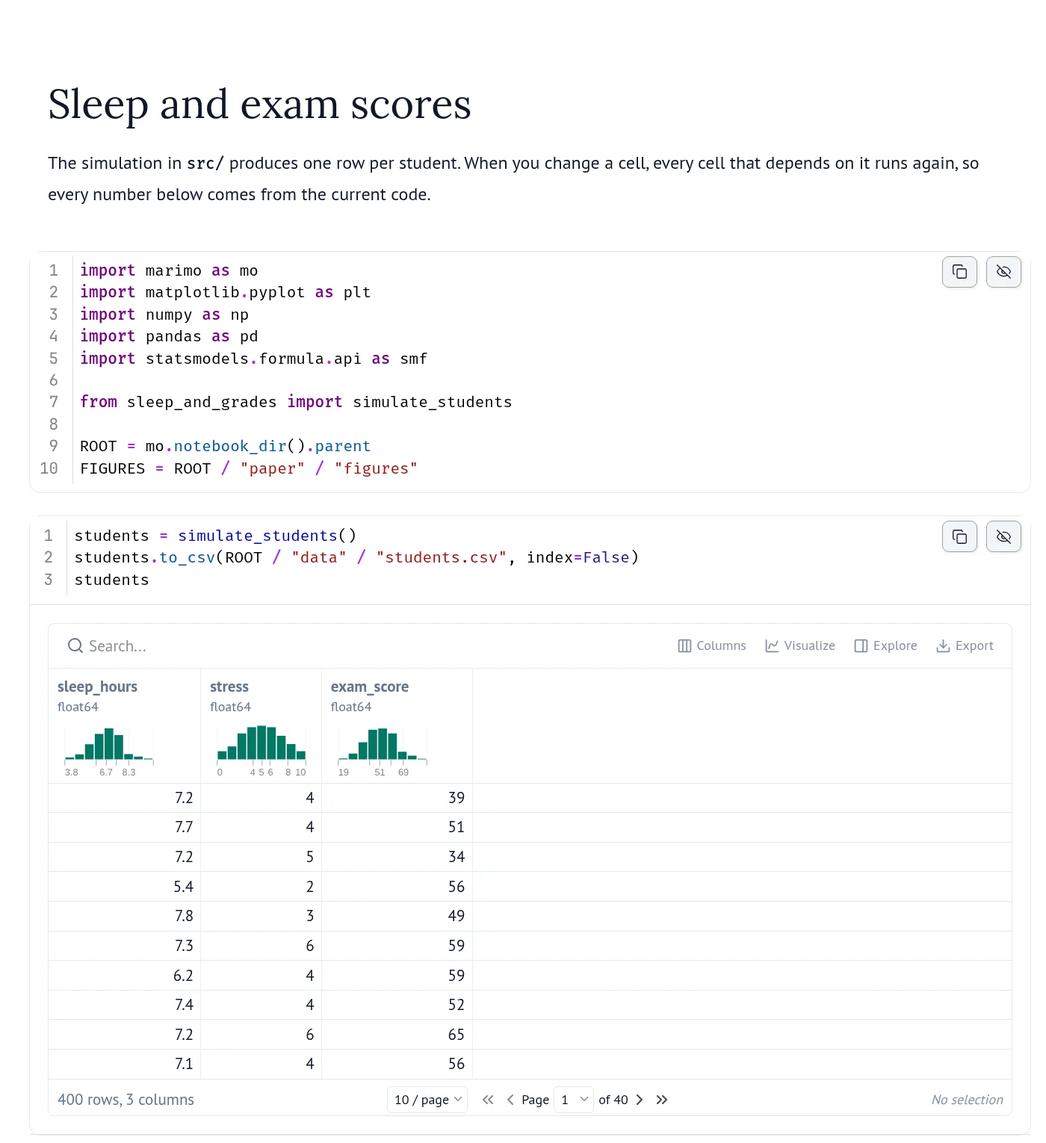
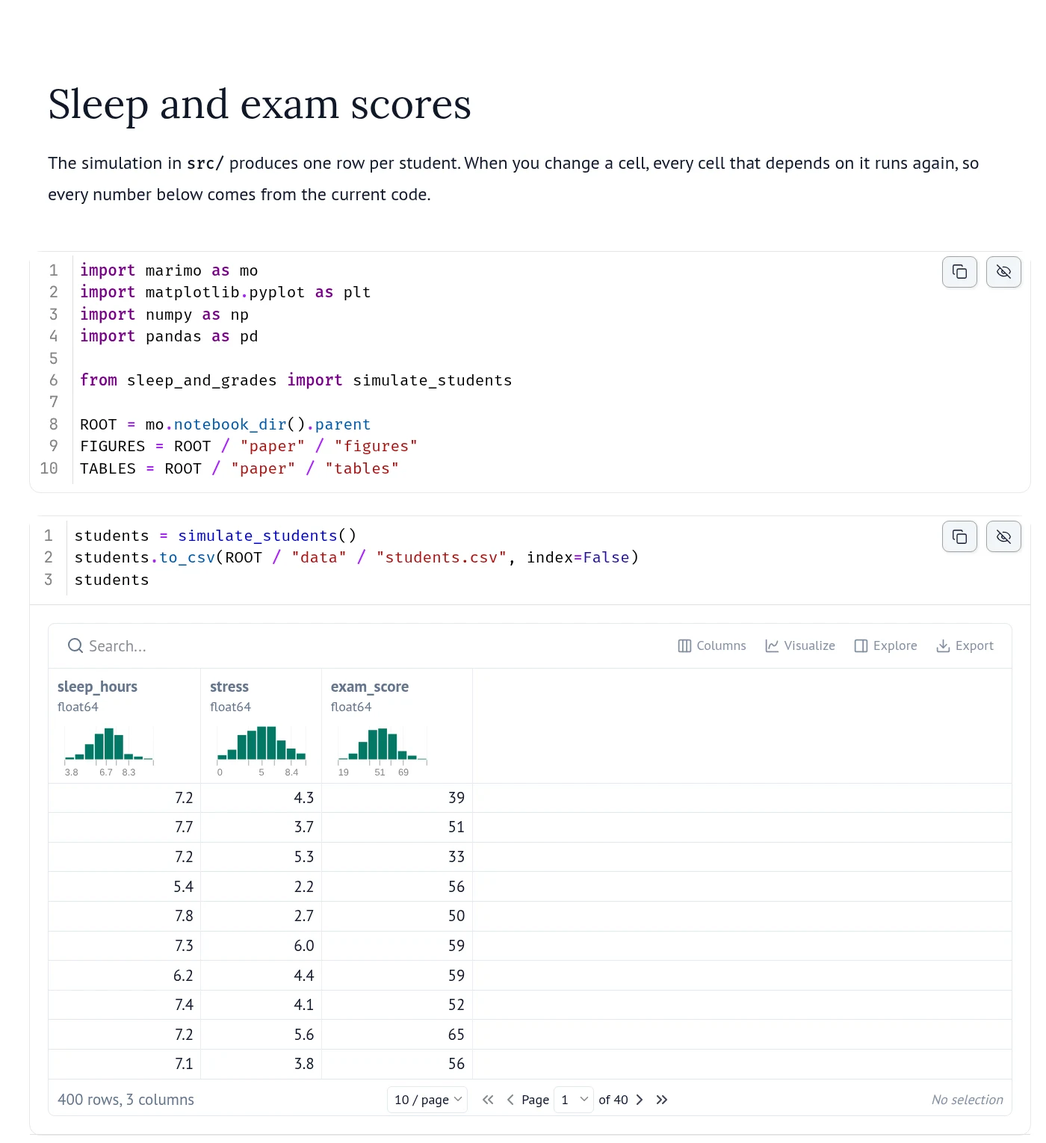
Agentic Researcher guide: analysis tab, live notebook with the agent, data and databases

diff --git a/agentic-researcher/index.html b/agentic-researcher/index.html
@@ -44,7 +44,7 @@
 </header>
 
 <figure class="ann wide hero-shot">
-  <div class="ann-img"><a href="shots/workspace.webp" target="_blank" rel="noopener"><img src="shots/workspace.webp" alt="A research project open on screen: the paper in an editor on the left and the Claude Code agent on the right, with tabs for running code, the paper, reviewing changes and backing up" loading="lazy"></a></div>
+  <div class="ann-img"><a href="shots/workspace.webp?v=3" target="_blank" rel="noopener"><img src="shots/workspace.webp?v=3" alt="A research project open on screen: the paper in an editor on the left and the Claude Code agent on the right, with tabs for running code, the paper, reviewing changes and backing up" loading="lazy"></a></div>
   <figcaption>One project, one window: the paper beside the agent, with tabs for running the code, building the paper, reviewing changes and backing up.</figcaption>
 </figure>
 
@@ -220,9 +220,9 @@
 
 <figure class="ann wide" id="shot-workspace">
   <div class="ann-img"><a href="shots/workspace.webp" target="_blank" rel="noopener"><img src="shots/workspace.webp" alt="The project workspace: a sidebar of projects and agents, a file list, the paper open in the editor, and Claude Code on the right, under five tabs" loading="lazy"></a>
-    <span class="box teal" style="left:12%;top:0%;width:25.5%;height:3.4%"></span><span class="pin" style="left:36.5%;top:1.7%">1</span><span class="pin" style="left:27%;top:22%">2</span><span class="pin" style="left:38%;top:41%">3</span><span class="pin" style="left:58.6%;top:36.8%">4</span><span class="pin" style="left:82%;top:6%">5</span><span class="pin" style="left:96%;top:94.7%">6</span><span class="pin" style="left:13.5%;top:57%">7</span>
+    <span class="box teal" style="left:12%;top:0%;width:24.4%;height:3.4%"></span><span class="pin" style="left:37.6%;top:1.7%">1</span><span class="pin" style="left:27%;top:22%">2</span><span class="pin" style="left:38%;top:41%">3</span><span class="pin" style="left:58.6%;top:36.8%">4</span><span class="pin" style="left:82%;top:6%">5</span><span class="pin" style="left:96%;top:94.7%">6</span><span class="pin" style="left:13.5%;top:57%">7</span>
   </div>
-  <ol class="ann-key"><li><strong>The five tabs</strong>: work, run, paper, review and git. Click one, or press <kbd>Alt</kbd> + <kbd>1</kbd> to <kbd>5</kbd>.</li><li><strong>The file list.</strong> Click a folder to open it and a file to edit it.</li><li><strong>The editor</strong>, showing the paper. Press <kbd>i</kbd> to start typing and <kbd>Esc</kbd> when you&rsquo;re done; long paragraphs wrap to fit.</li><li><strong>Writing suggestions</strong> appear in green after a line, here a suggested comma. They come from a checker that runs on your computer.</li><li><strong>Claude Code</strong>, your agent, already working inside this project.</li><li><strong>Type your request here</strong> and press <kbd>Enter</kbd>.</li><li><strong>Projects and agents.</strong> The dot next to an agent shows whether it&rsquo;s working, waiting for you or done, so you can leave it to work and check back.</li></ol>
+  <ol class="ann-key"><li><strong>The five tabs</strong>: work, analysis, paper, review and git. Click one, or press <kbd>Alt</kbd> + <kbd>1</kbd> to <kbd>5</kbd>.</li><li><strong>The file list.</strong> Click a folder to open it and a file to edit it.</li><li><strong>The editor</strong>, showing the paper. Press <kbd>i</kbd> to start typing and <kbd>Esc</kbd> when you&rsquo;re done; long paragraphs wrap to fit.</li><li><strong>Writing suggestions</strong> appear in green after a line, here a suggested comma. They come from a checker that runs on your computer.</li><li><strong>Claude Code</strong>, your agent, already working inside this project.</li><li><strong>Type your request here</strong> and press <kbd>Enter</kbd>.</li><li><strong>Projects and agents.</strong> The dot next to an agent shows whether it&rsquo;s working, waiting for you or done, so you can leave it to work and check back.</li></ol>
   <figcaption>The <em>work</em> tab: the editor and the agent side by side</figcaption>
 </figure>
 
@@ -243,8 +243,8 @@
 
 <div class="loop">
   <div class="loop-step"><div class="loop-n">1 · work</div><div class="loop-t">Write the software</div><div class="loop-d">with the agent</div></div>
-  <div class="loop-step"><div class="loop-n">2 · run</div><div class="loop-t">Run it</div><div class="loop-d">and open the notebook</div></div>
-  <div class="loop-step"><div class="loop-n">3 · notebook</div><div class="loop-t">Analyse</div><div class="loop-d">with live results</div></div>
+  <div class="loop-step"><div class="loop-n">2 · analysis</div><div class="loop-t">Run it</div><div class="loop-d">and open the notebook</div></div>
+  <div class="loop-step"><div class="loop-n">3 · analysis</div><div class="loop-t">Analyse</div><div class="loop-d">with live results</div></div>
   <div class="loop-step"><div class="loop-n">4 · paper</div><div class="loop-t">Write</div><div class="loop-d">with a live PDF</div></div>
   <div class="loop-step"><div class="loop-n">5 · review</div><div class="loop-t">Check</div><div class="loop-d">every change</div></div>
   <div class="loop-step"><div class="loop-n">6 · git</div><div class="loop-t">Save</div><div class="loop-d">and back up</div></div>
@@ -254,56 +254,81 @@
 <p>Claude Code sits beside the editor in the <em>work</em> tab. Tell it what you want in plain English. It reads the project, proposes changes and asks before it does anything you haven’t allowed. Here I asked it to add a second factor to the simulation.</p>
 
 <figure class="ann wide" id="shot-agent">
-  <div class="ann-img"><a href="shots/agent.webp" target="_blank" rel="noopener"><img src="shots/agent.webp" alt="Claude Code on the right explaining the change it made, with the edited simulation file open in the editor on the left" loading="lazy"></a>
-    <span class="box" style="left:61%;top:22%;width:36%;height:18%"></span><span class="pin" style="left:59.8%;top:22%">1</span><span class="pin" style="left:59.8%;top:50%">2</span><span class="pin" style="left:30.8%;top:44%">3</span><span class="pin" style="left:28.3%;top:19%">4</span><span class="pin" style="left:95%;top:94.5%">5</span>
+  <div class="ann-img"><a href="shots/agent.webp?v=3" target="_blank" rel="noopener"><img src="shots/agent.webp?v=3" alt="Claude Code, enlarged to fill the workspace, showing its edit to the simulation in red and green and a note on what it checked" loading="lazy"></a>
+    <span class="pin" style="left:76.5%;top:4.7%">1</span><span class="pin" style="left:13.1%;top:14.4%">2</span><span class="pin" style="left:10.9%;top:84.6%">3</span>
   </div>
-  <ol class="ann-key"><li>Claude shows each edit as it makes it: red lines removed, green lines added. Here it also updated a sentence in the paper so the Methods section matches the code.</li><li>Its summary: what it changed, how it checked the result, and what it <em>hasn&rsquo;t</em> done yet (re-run the notebook).</li><li>The changed file is open in the editor. The coloured bar in the margin marks changed lines.</li><li>Changed files are marked in the file list.</li><li>Reply here to ask for changes or the next step.</li></ol>
-  <figcaption>After asking: <em>&ldquo;Add exam stress to the simulation: give each student a stress score from 0 to 10 that lowers their exam score by about one point per unit.&rdquo;</em></figcaption>
+  <ol class="ann-key"><li>Your request stays at the top while Claude works.</li><li>Claude shows each edit as it makes it: red lines removed, green lines added. Here it adds a stress score, and a <code>stress_effect</code> setting for how much it costs.</li><li>It says what it checked: a test fit recovers the effects it set. Next it reran the notebook and updated the Methods sentence in the paper, and finished with a summary and a suggested next step.</li></ol>
+  <figcaption>After asking: <em>&ldquo;Add exam stress to the simulation: give each student a stress score from 0 to 10 that lowers their exam score by about one point per unit.&rdquo;</em> The agent&rsquo;s pane is enlarged here to show its work.</figcaption>
 </figure>
 
 <p>To open any file yourself, click it in the file list on the left. Right-click in the text for a menu of everyday actions: find a file, search the whole project, show the PDF, show or hide the file list.</p>
 
 <h3 id="run">Run it, and open the notebook</h3>
-<p>The <em>run</em> tab has a plain terminal on the left for running your software. On the right it starts your project’s notebooks. Press <kbd>Enter</kbd> there, or right-click in the editor and choose <strong>Open the analysis notebook</strong>, and the notebook opens in its own window beside your workspace, like the PDF preview.</p>
+<p>The <em>analysis</em> tab has a terminal on the left, for running your software and any other command-line tool. On the right it starts your project’s notebooks. Press <kbd>Enter</kbd> there, or right-click in the editor and choose <strong>Open the analysis notebook</strong>, and the notebook opens in its own window beside your workspace, like the PDF preview.</p>
 
 <figure class="ann wide" id="shot-run">
-  <div class="ann-img"><a href="shots/run-notebook.webp" target="_blank" rel="noopener"><img src="shots/run-notebook.webp" alt="The run tab on the left, with a terminal showing simulated students and a message that the notebooks are ready; the analysis notebook open in its own window on the right, showing a data table and a scatter plot" loading="lazy"></a>
-    <span class="pin" style="left:17.8%;top:3%">1</span><span class="pin" style="left:27.5%;top:19%">2</span><span class="pin" style="left:45%;top:30%">3</span><span class="pin" style="left:59%;top:8.4%">4</span>
+  <div class="ann-img"><a href="shots/analysis-notebook.webp" target="_blank" rel="noopener"><img src="shots/analysis-notebook.webp" alt="The analysis tab on the left, with a terminal showing simulated students and a message that the notebooks are ready; the analysis notebook open in its own window on the right, showing a data table and a scatter plot" loading="lazy"></a>
+    <span class="pin" style="left:23.2%;top:3%">1</span><span class="pin" style="left:29.5%;top:12%">2</span><span class="pin" style="left:40.4%;top:28.8%">3</span><span class="pin" style="left:58.9%;top:8.4%">4</span>
   </div>
-  <ol class="ann-key"><li>The <em>run</em> tab.</li><li>A terminal for running your software. Here it prints the first eight simulated students, including the new <code>stress</code> column.</li><li>The notebooks for this project. Press <kbd>Enter</kbd> here to open the notebook window again if you close it.</li><li>The notebook, in its own window. It runs as it opens, so you see results straight away.</li></ol>
-  <figcaption>The <em>run</em> tab and the notebook window, side by side</figcaption>
+  <ol class="ann-key"><li>The <em>analysis</em> tab.</li><li>A terminal for running your software. Here it prints the first eight simulated students, including the new <code>stress</code> column.</li><li>The notebooks for this project. Press <kbd>Enter</kbd> here to open the notebook window again if you close it.</li><li>The notebook, in its own window. It runs as it opens, so you see results straight away.</li></ol>
+  <figcaption>The <em>analysis</em> tab and the notebook window, side by side</figcaption>
 </figure>
 
 <h3 id="analyse">Analyse in a live notebook</h3>
-<p>Analysis happens in <a href="https://marimo.io">marimo</a>, a free notebook that runs on your computer. Like any notebook, it mixes notes in plain English, the code for each step, and the results that code produces. Unlike most notebooks, it keeps them in step for you: change a cell and every cell that depends on it runs again, so no table or figure on the page is ever out of date.</p>
+<p>Analysis happens in <a href="https://marimo.io">marimo</a>, a free, open-source notebook that runs on your computer. Like any notebook, it mixes notes in plain English, the code for each step, and the results that code produces. Unlike most notebooks, it keeps them in step for you: change a cell and every cell that depends on it runs again, so no table or figure on the page is ever out of date.</p>
 
 <figure class="ann" id="shot-table">
-  <div class="ann-img"><a href="shots/marimo-table.webp" target="_blank" rel="noopener"><img src="shots/marimo-table.webp" alt="The marimo notebook: a heading and short explanation, the code that loads the simulation, and an interactive table of 400 students with a small histogram above each column" loading="lazy"></a>
-    <span class="pin" style="left:49%;top:9%">1</span><span class="pin" style="left:75%;top:28%">2</span><span class="pin" style="left:60%;top:55.5%">3</span><span class="pin" style="left:52%;top:64%">4</span><span class="pin" style="left:26%;top:96.6%">5</span>
+  <div class="ann-img"><a href="shots/marimo-table.webp?v=3" target="_blank" rel="noopener"><img src="shots/marimo-table.webp?v=3" alt="The marimo notebook: a heading and short explanation, the code that loads the simulation, and an interactive table of 400 students with a small histogram above each column" loading="lazy"></a>
+    <span class="pin" style="left:49%;top:9%">1</span><span class="pin" style="left:75%;top:30%">2</span><span class="pin" style="left:60%;top:56.5%">3</span><span class="pin" style="left:51.6%;top:64%">4</span><span class="pin" style="left:22%;top:96%">5</span>
   </div>
   <ol class="ann-key"><li><strong>Notes</strong>, formatted as headings and text, explain each step.</li><li><strong>The code</strong> that loads the data. It runs the project&rsquo;s own simulation, so the data is always the current version.</li><li>Search, filter, sort and chart the data without writing any code, much like the data view in SPSS.</li><li>A small histogram over each column shows its spread at a glance.</li><li>All 400 students, ten at a time.</li></ol>
   <figcaption>The data, straight under the code that made it</figcaption>
 </figure>
 
-<p>Further down, the notebook fits the model, saves the figure into <code>paper/figures/</code>, and lets you try out ideas with a slider before you commit to them:</p>
+<p><strong>Ask the agent, watch the notebook.</strong> Because the notebook has its own window, the agent can sit right beside it. Go back to the <em>work</em> tab and ask for the next step in plain English. Each notebook is an ordinary Python file in <code>analysis/</code>, so the agent edits it like any other file, and the open notebook updates as soon as it saves.</p>
 
-<figure class="ann" id="shot-results">
-  <div class="ann-img"><a href="shots/marimo-results.webp" target="_blank" rel="noopener"><img src="shots/marimo-results.webp" alt="The notebook further down: code fitting a regression of exam score on sleep and stress, a table of estimates with confidence intervals, and a slider that changes how much stress costs, with the updated estimates underneath" loading="lazy"></a>
-    <span class="pin" style="left:78%;top:18%">1</span><span class="pin" style="left:21%;top:48.5%">2</span><span class="pin" style="left:45%;top:75.4%">3</span><span class="pin" style="left:60%;top:96.4%">4</span>
+<figure class="ann wide" id="shot-live">
+  <div class="ann-img"><a href="shots/agent-notebook.webp" target="_blank" rel="noopener"><img src="shots/agent-notebook.webp" alt="Claude Code on the left explaining the fit it added, with a table of estimates; the notebook on the right showing the new Sleep and stress together section and its results table" loading="lazy"></a>
+    <span class="pin" style="left:11.2%;top:27.9%">1</span><span class="pin" style="left:48.5%;top:45%">2</span><span class="pin" style="left:59%;top:48%">3</span><span class="pin" style="left:60%;top:79.5%">4</span>
   </div>
-  <ol class="ann-key"><li>A regression of exam score on sleep and stress, in a few lines of code.</li><li>The results as a table: each extra hour of sleep adds about 3.5 points, even after accounting for stress.</li><li><strong>Try an idea.</strong> Drag the slider to make stress matter more&hellip;</li><li>&hellip;and the simulation, the fit and these numbers update at once.</li></ol>
-  <figcaption>Results, and a &ldquo;what if?&rdquo; slider</figcaption>
+  <ol class="ann-key"><li>Claude says what it added and how it checked it: it ran the notebook, and marimo&rsquo;s own check passed.</li><li>The results, with each estimate beside the value the simulation was given.</li><li>The new section in the notebook, there as soon as Claude saved the file&hellip;</li><li>&hellip;with the same results as a table you can search and sort. Claude also saved it to <code>paper/tables/</code> for the paper.</li></ol>
+  <figcaption>After asking: <em>&ldquo;Add a fit with both sleep and stress to the notebook, and show the results as a table.&rdquo;</em> The agent&rsquo;s pane fills the workspace here; the notebook window stays where it is when you switch tabs.</figcaption>
 </figure>
 
-<p><strong>Working with the agent.</strong> Each notebook is an ordinary Python file in <code>analysis/</code>, so the agent can read and change it like any other file. Ask it to <em>“add a regression of score on sleep and stress to the notebook”</em> and the open window updates as soon as it saves, running just the cells that changed. Because the file is plain text, the <em>review</em> tab shows exactly what it changed, line by line.</p>
-<p><strong>Why this beats an output window.</strong> In SPSS or Stata the analysis happens in one place, the results pile up in another, and the explanation lives in your head or a separate document. A notebook keeps all three together, in order, so it reads like a lab notebook that keeps itself up to date. Six months later you can see exactly how every number was made. To run the whole notebook from start to finish, for example after changing the software, type <code>uv run analysis/01-explore.py</code> in the <em>run</em> tab’s terminal, or ask the agent to.</p>
+<h3 id="data">Your data and databases</h3>
+<p><strong>Files.</strong> Data files go in <code>data/</code>: CSV, Excel, Parquet, or your existing SPSS and Stata files. Python reads them all; ask the agent to load one into the notebook.</p>
+<p><strong>SQL.</strong> If you’d rather ask questions in SQL, a notebook cell can be SQL instead of Python. It can query the tables already in the notebook, files in <code>data/</code> directly (<code>FROM 'data/survey.csv'</code>), or a database. The answer is another table you can search and sort, and the cells after it can use it.</p>
+
+<figure class="ann" id="shot-sql">
+  <div class="ann-img"><a href="shots/marimo-sql.webp" target="_blank" rel="noopener"><img src="shots/marimo-sql.webp" alt="A SQL cell in the notebook grouping students by whole hours of sleep, and the result: the number of students and the average exam score for each hour" loading="lazy"></a>
+    <span class="pin" style="left:75%;top:32%">1</span><span class="pin" style="left:75%;top:78%">2</span>
+  </div>
+  <ol class="ann-key"><li>A SQL cell: the number of students and their average score for each whole hour of sleep, straight from the <code>students</code> table above it.</li><li>The answer, as a table the next cells can use.</li></ol>
+  <figcaption>A SQL cell. The agent wrote it after being asked for <em>&ldquo;the number of students and the average exam score for each whole hour of sleep&rdquo;</em></figcaption>
+</figure>
+
+<p><strong>Your own database.</strong> To work with a Postgres, MySQL, SQLite or other database, choose <strong>Add database connection</strong> in the notebook’s left-hand panel, or ask the agent to set it up. The database’s tables then appear in that panel, ready to query. Keep the password out of the notebook: put it in a file called <code>.env</code> in the project folder (for example <code>DB_PASSWORD=…</code>) and have the connection read it from there. marimo loads <code>.env</code> when the notebook starts, and Git ignores it, so the password never ends up in a saved version or on GitHub.</p>
+<p><strong>The command line.</strong> The terminal in the <em>analysis</em> tab is there for everything else: database tools such as <code>psql</code> or <code>duckdb</code>, cloud tools such as AWS’s <code>aws</code>, and <code>ssh</code> to log in to a university computing cluster.</p>
+
+<h3 id="what-if">Try ideas with a slider</h3>
+<p>Notebooks can be interactive too. Here the agent added a slider for how much stress costs: drag it, and the simulation and the fit run again at once. It’s a quick way to see how sensitive a result is before you commit to an analysis.</p>
+
+<figure class="ann" id="shot-slider">
+  <div class="ann-img"><a href="shots/marimo-slider.webp" target="_blank" rel="noopener"><img src="shots/marimo-slider.webp" alt="A section of the notebook with a slider for the points lost per unit of stress, the code that reruns the simulation with that value, and a table of the fitted estimates" loading="lazy"></a>
+    <span class="pin" style="left:44%;top:33.7%">1</span><span class="pin" style="left:75%;top:91%">2</span>
+  </div>
+  <ol class="ann-key"><li>Drag the slider to change how many points each unit of stress costs&hellip;</li><li>&hellip;and the simulation reruns and these estimates update. Nothing here is saved to the paper.</li></ol>
+  <figcaption>A &ldquo;what if?&rdquo; slider</figcaption>
+</figure>
+
+<p><strong>Why this beats an output window.</strong> In SPSS or Stata the analysis happens in one place, the results pile up in another, and the explanation lives in your head or a separate document. A notebook keeps all three together, in order, so it reads like a lab notebook that keeps itself up to date. Six months later you can see exactly how every number was made. Because each notebook is plain text, the <em>review</em> tab shows every change to it line by line. To run the whole notebook from start to finish, for example after changing the software, type <code>uv run analysis/01-explore.py</code> in the <em>analysis</em> tab’s terminal, or ask the agent to.</p>
 
 <h3 id="write">Write the paper, with a live PDF</h3>
 <p>The paper is <code>paper/index.qmd</code>, written in Markdown: plain text with a few marks for headings, emphasis and citations. The <em>paper</em> tab rebuilds the PDF every time you save. To see it, right-click in the text and choose <strong>Show PDF preview</strong>. The PDF opens in a window beside the editor, and clicking any sentence in it takes the editor to that sentence.</p>
 
 <figure class="ann wide" id="shot-preview">
-  <div class="ann-img"><a href="shots/preview.webp" target="_blank" rel="noopener"><img src="shots/preview.webp" alt="The paper source in the editor on the left and the PDF preview window on the right showing the same sections" loading="lazy"></a>
-    <span class="box" style="left:26%;top:34.6%;width:23%;height:8.4%"></span><span class="box" style="left:57%;top:77.5%;width:36%;height:7%"></span><span class="pin" style="left:24.5%;top:38.5%">1</span><span class="pin" style="left:55%;top:81%">2</span><span class="pin" style="left:60%;top:10%">3</span><span class="pin" style="left:55%;top:72%">4</span>
+  <div class="ann-img"><a href="shots/preview.webp?v=3" target="_blank" rel="noopener"><img src="shots/preview.webp?v=3" alt="The paper source in the editor on the left and the PDF preview window on the right showing the same sections" loading="lazy"></a>
+    <span class="box" style="left:26.9%;top:46.9%;width:22%;height:6.4%"></span><span class="box" style="left:57.4%;top:82%;width:35%;height:4.6%"></span><span class="pin" style="left:25.6%;top:50%">1</span><span class="pin" style="left:56%;top:84.3%">2</span><span class="pin" style="left:66%;top:17.7%">3</span><span class="pin" style="left:56%;top:73%">4</span>
   </div>
   <ol class="ann-key"><li>The source of the Results section in <code>paper/index.qmd</code>.</li><li>The same paragraph in the PDF. <strong>Click any sentence here</strong> and the editor jumps to it.</li><li>The preview opens in its own window and updates a few seconds after you save.</li><li>The agent&rsquo;s change to the Methods section, already in the PDF.</li></ol>
   <figcaption>Click-to-jump PDF preview</figcaption>
@@ -316,20 +341,20 @@
 <p>By the time you look, the agent’s changes are already in your files. The <em>review</em> tab shows every line that has changed since you last saved a version, whether you changed it or the agent did. You don’t approve changes one at a time. You read them, and if something looks wrong or raises a question, you say so.</p>
 
 <figure class="ann wide" id="shot-review">
-  <div class="ann-img"><a href="shots/review.webp?v=2" target="_blank" rel="noopener"><img src="shots/review.webp?v=2" alt="Hunk in the review tab: each changed line shown twice, the old version in red and the new version in green underneath it" loading="lazy"></a>
+  <div class="ann-img"><a href="shots/review.webp?v=3" target="_blank" rel="noopener"><img src="shots/review.webp?v=3" alt="Hunk in the review tab: each changed line shown twice, the old version in red and the new version in green underneath it" loading="lazy"></a>
     <span class="pin" style="left:25.6%;top:10.5%">1</span><span class="pin" style="left:26%;top:17%">2</span><span class="pin" style="left:26%;top:23.6%">3</span><span class="pin" style="left:85%;top:55%">4</span>
   </div>
-  <ol class="ann-key"><li>Every file that has changed since your last saved version. Click one to jump to it.</li><li>The old version of a line, in red.</li><li>The new version, in green, straight underneath. This is the agent&rsquo;s change to the Methods section. Very long lines are cut off at the edge of the window.</li><li>The agent&rsquo;s change to the simulation, line by line.</li></ol>
+  <ol class="ann-key"><li>Every file that has changed since your last saved version. Click one to jump to it.</li><li>The old version of a line, in red.</li><li>The new version, in green, straight underneath. This is the agent&rsquo;s change to the Methods section. Long lines run off the edge in this picture; press <kbd>w</kbd> to wrap them onto the next line, which the review tab does when it starts (it can split a word at the edge).</li><li>The agent&rsquo;s change to the simulation, line by line.</li></ol>
   <figcaption>The <em>review</em> tab</figcaption>
 </figure>
 
 <p><strong>Leave a note on a line.</strong> In the <em>review</em> tab, move to the line with <kbd>j</kbd> (down) and <kbd>k</kbd> (up), press <kbd>c</kbd>, type your note and press <kbd>Ctrl</kbd> + <kbd>S</kbd> to save it. Then tell the agent in the <em>work</em> tab: <em>“I left a comment in Hunk. Reply to it there.”</em> It reads your note and answers underneath it, on the same line. If you ask for a change, it makes it and the review updates. Press <kbd>a</kbd> to show or hide the agent’s notes.</p>
 
 <figure class="ann wide" id="shot-comments">
-  <div class="ann-img"><a href="shots/review-comments.webp?v=2" target="_blank" rel="noopener"><img src="shots/review-comments.webp?v=2" alt="Hunk in the review tab: a note from the researcher on a changed line of the simulation, asking whether stress should depend on sleep, and the agent&rsquo;s reply underneath it" loading="lazy"></a>
-    <span class="pin" style="left:25.6%;top:14%">1</span><span class="pin" style="left:85%;top:64.8%">2</span><span class="pin" style="left:27.5%;top:69.3%">3</span><span class="pin" style="left:27.5%;top:79.4%">4</span>
+  <div class="ann-img"><a href="shots/review-comments.webp?v=3" target="_blank" rel="noopener"><img src="shots/review-comments.webp?v=3" alt="Hunk in the review tab: a note from the researcher on a changed line of the simulation, asking whether stress should depend on sleep, and the agent&rsquo;s reply underneath it" loading="lazy"></a>
+    <span class="pin" style="left:25.6%;top:14%">1</span><span class="pin" style="left:85.2%;top:59.6%">2</span><span class="pin" style="left:27.5%;top:64%">3</span><span class="pin" style="left:27.5%;top:76%">4</span>
   </div>
-  <ol class="ann-key"><li>The star and number show how many notes a file has.</li><li>The line under discussion: the agent&rsquo;s new stress score.</li><li><strong>Your note</strong>: <em>&ldquo;Should stress depend on sleep? Students who sleep less are probably more stressed.&rdquo;</em></li><li><strong>The agent&rsquo;s reply</strong>, on the same line. It explains what the change would mean for the paper&rsquo;s findings, then asks which option you want. Answer in the <em>work</em> tab.</li></ol>
+  <ol class="ann-key"><li>The star and number show how many notes a file has.</li><li>The line under discussion: the agent&rsquo;s new stress score.</li><li><strong>Your note</strong>: <em>&ldquo;Should stress depend on sleep? Students who sleep less are probably more stressed.&rdquo;</em></li><li><strong>Claude&rsquo;s reply</strong>, on the same line. It explains what the change would mean for the paper&rsquo;s findings, then asks which option you want. Answer in the <em>work</em> tab.</li></ol>
   <figcaption>A conversation about one line of code, inside the review</figcaption>
 </figure>
 
@@ -337,8 +362,8 @@
 <p>When you’re happy with where the project is, save a version of the whole project (a <em>commit</em>) in the <em>git</em> tab. You can also just ask the agent: <em>“commit this with a short description”</em>. The first time, ask it to <em>“create a private GitHub repository for this project and push it”</em>, and your work is backed up from then on.</p>
 
 <figure class="ann wide" id="shot-git">
-  <div class="ann-img"><a href="shots/git.webp" target="_blank" rel="noopener"><img src="shots/git.webp" alt="lazygit in the git tab: changed files on the left, the saved versions below them, and the selected file&rsquo;s changes on the right" loading="lazy"></a>
-    <span class="pin" style="left:36%;top:19%">1</span><span class="pin" style="left:36%;top:72%">2</span><span class="pin" style="left:90%;top:38%">3</span><span class="pin" style="left:50%;top:98%">4</span>
+  <div class="ann-img"><a href="shots/git.webp?v=3" target="_blank" rel="noopener"><img src="shots/git.webp?v=3" alt="lazygit in the git tab: changed files on the left, the saved versions below them, and the selected file&rsquo;s changes on the right" loading="lazy"></a>
+    <span class="pin" style="left:36%;top:19%">1</span><span class="pin" style="left:30%;top:74%">2</span><span class="pin" style="left:90%;top:38%">3</span><span class="pin" style="left:53%;top:98%">4</span>
   </div>
   <ol class="ann-key"><li>Every changed file. Press <kbd>a</kbd> to include them all in the version you&rsquo;re about to save.</li><li>Saved versions so far, newest first.</li><li>What changed in the selected file.</li><li>The keys for this screen are always listed along the bottom: <kbd>c</kbd> saves a version (a <em>commit</em>) and asks for a short description.</li></ol>
   <figcaption>The <em>git</em> tab</figcaption>
@@ -389,7 +414,7 @@
     <tr><td>Close a window</td><td><kbd>Super</kbd> + <kbd>W</kbd></td></tr>
     <tr><td>See every shortcut</td><td><kbd>Super</kbd> + <kbd>K</kbd></td></tr>
     <tr><td>Start or open a project</td><td>Omarchy menu › Projects</td></tr>
-    <tr><td>Open the analysis notebook</td><td>Right-click in the editor › Open the analysis notebook, or <kbd>Enter</kbd> in the <em>run</em> tab</td></tr>
+    <tr><td>Open the analysis notebook</td><td>Right-click in the editor › Open the analysis notebook, or <kbd>Enter</kbd> in the <em>analysis</em> tab</td></tr>
     <tr><td>Switch tabs in a project</td><td><kbd>Alt</kbd> + <kbd>1</kbd> … <kbd>5</kbd>, or click the tab</td></tr>
     <tr><td>Open a file</td><td>Click it in the file list</td></tr>
     <tr><td>Everyday editor actions</td><td>Right-click in the text</td></tr>
